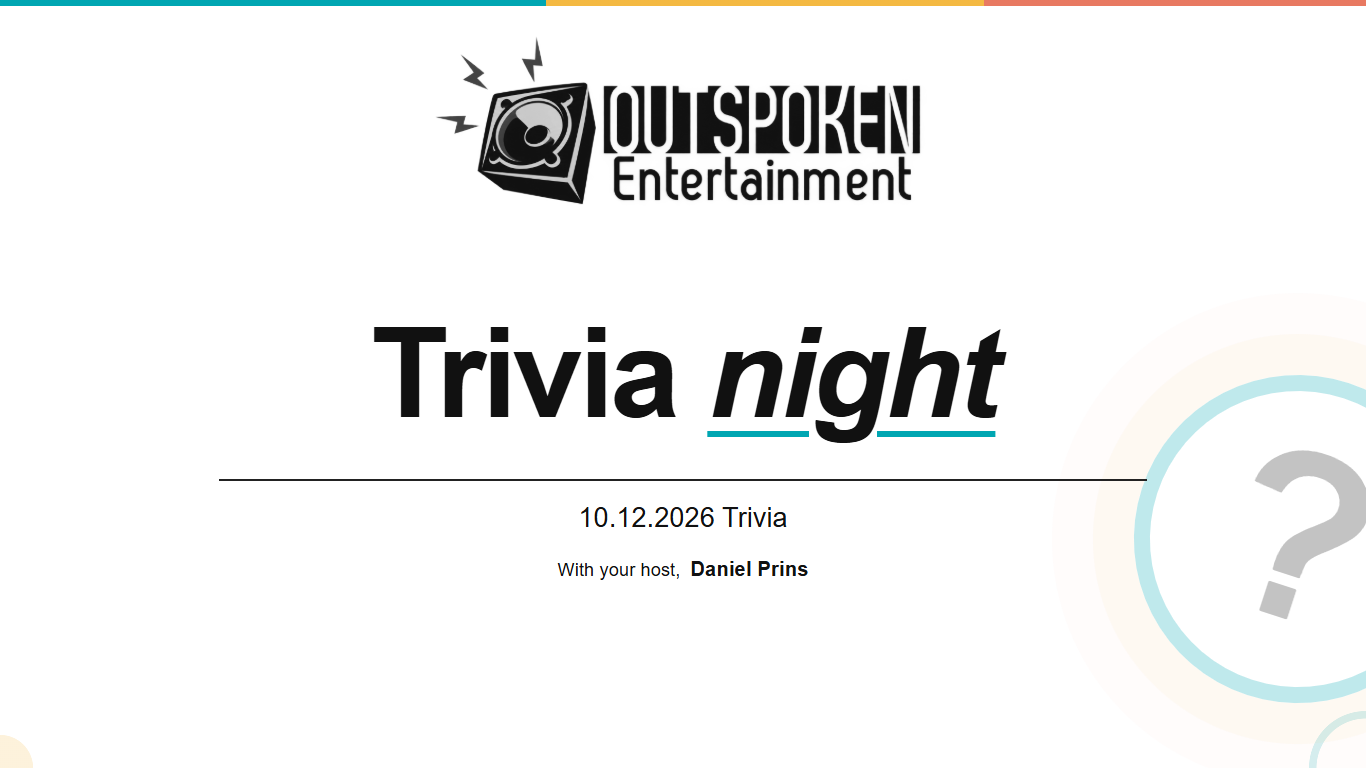
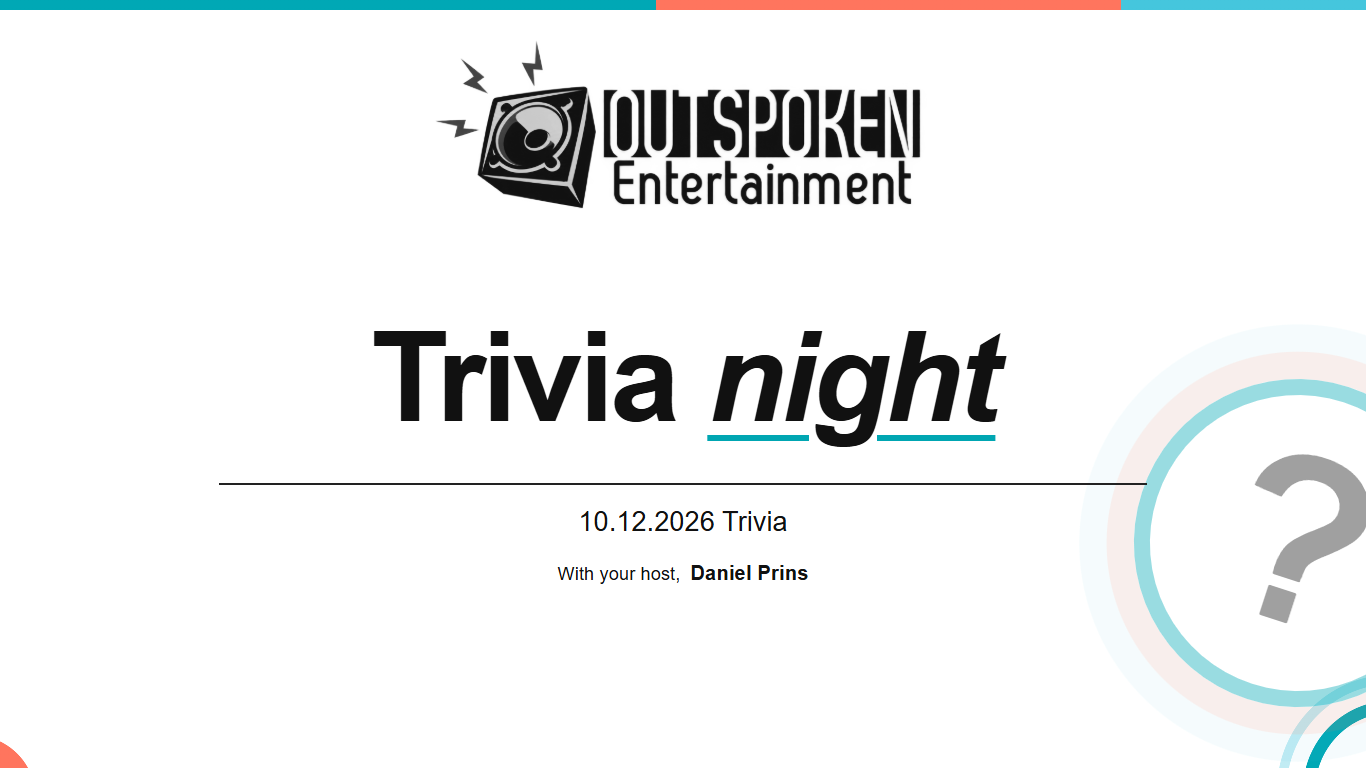
Use white answer cards and stronger colorful edge accents

diff --git a/src/trivia/dark.css b/src/trivia/dark.css
@@ -297,3 +297,13 @@
 .trivia-slide .trivia-stage{background-image:radial-gradient(circle at 100% 100%,transparent 0 3.6cqw,#00a6b22b 3.65cqw 4.15cqw,transparent 4.2cqw),radial-gradient(circle at 0 100%,#f4b94230 0 2.4cqw,transparent 2.45cqw);background-color:#fff}
 .trivia-question-timing label{flex:1;min-width:160px}.trivia-question-timing input[type=range]{display:block;width:100%;max-width:280px;padding:0;margin-top:8px;accent-color:#008b98}.trivia-question-timing label strong{font-variant-numeric:tabular-nums;color:#111}
 .trivia-sound-controls{display:flex;align-items:center;gap:8px;flex-wrap:wrap;border-top:1px solid #bbb;margin-top:14px;padding-top:12px;font-size:12px}.trivia-sound-controls input[type=range]{width:110px}.trivia-sound-controls input[type=checkbox]{width:auto}.trivia-slider-scale{display:flex;justify-content:space-between;font-size:11px;margin-top:5px}.trivia-question-timing{align-items:center}.trivia-question-timing label{max-width:280px}.trivia-question-timing label>strong{float:right;font-size:22px}
+/* Bolder party accents around crisp, untinted reading surfaces. */
+.trivia-slide .trivia-stage{border-top-width:.75cqw;border-image:linear-gradient(90deg,#00a8b5 0 48%,#ff755e 48% 82%,#45c6dd 82% 100%) 1;background-image:radial-gradient(circle at 102% 103%,transparent 0 5.7cqw,#00a8b5 5.75cqw 6.6cqw,transparent 6.65cqw 7.8cqw,#45c6dd55 7.85cqw 8.5cqw,transparent 8.55cqw),radial-gradient(circle at -2% 104%,#ff755e 0 4.6cqw,transparent 4.65cqw);background-color:#fff}
+.trivia-slide .trivia-combined .trivia-answer-list .answer-shown,.trivia-slide .trivia-answer-list .answer-shown,.trivia-slide .paired-answer.is-visible{background:#fff;border-left:.65cqw solid #00a8b5}
+.trivia-slide .trivia-combined .trivia-answer-list .answer-shown:nth-child(3n+2),.trivia-slide .trivia-answer-list .answer-shown:nth-child(3n+2){border-left-color:#ff755e}
+.trivia-slide .trivia-combined .trivia-answer-list .answer-shown:nth-child(3n),.trivia-slide .trivia-answer-list .answer-shown:nth-child(3n){border-left-color:#45c6dd}
+.trivia-slide .trivia-combined .trivia-answer-list .answer-hidden{border-left-width:.65cqw}
+.trivia-slide .trivia-combined .trivia-answer-list .answer-hidden:nth-child(3n+2){border-left-color:#ff755e}
+.trivia-slide .trivia-combined .trivia-answer-list .answer-hidden:nth-child(3n){border-left-color:#45c6dd}
+.trivia-slide .trivia-transition-scoring{border-bottom-color:#00a8b5}
+.trivia-slide .intro-orbit{opacity:.4;border-color:#00a8b5;box-shadow:0 0 0 2cqw #ff755e44,0 0 0 4cqw #45c6dd22}

diff --git a/TEST-REPORT.md b/TEST-REPORT.md
@@ -173,3 +173,6 @@ Trivia standings use light backgrounds with black text and rank-based medal acce
 
 ### Simplified timer controls
 Presenter timer is a 0–600-second slider in 15-second increments with a single Start/Pause/Restart button. Sound controls are grouped below. Browser tests verify pause/resume, zero and ten-minute endpoints, step size, 270-second persistence, audience synchronization and 1366×768 fit. Existing countdown/sound checks pass using the + keyboard extension. Timing unit tests, typecheck, lint and production build pass.
+
+### Stronger edge accents
+Removed cream-yellow answer fill. Increased top stripe, corner decoration and answer-border color while retaining white faces and black text. Production build and October deck geometry/contrast checks pass at 720p/1080p; combined answer screenshot visually inspected.

diff --git a/README.md b/README.md
@@ -215,3 +215,5 @@ Bonus and final question transition cards display the supplied answer count and 
 Turquoise, warm yellow and coral decorate the slide edges and answer borders; all main reading surfaces retain black text on white.
 
 Trivia standings use light cards with black text and gold/silver/bronze accents keyed to actual rank (including silver for second with two teams). Tied ranks receive the same accent. The October final asks for 10 answers publicly while preserving all accepted answers for grading.
+
+Answer faces are crisp white. Stronger turquoise/coral edge stripes, corner rings and answer borders add color without tinting the text surfaces.
